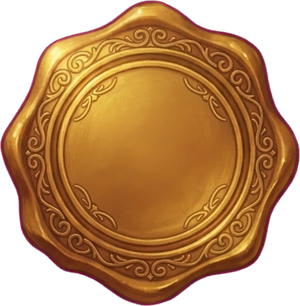
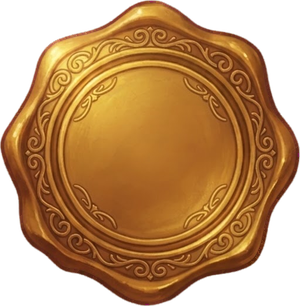
Grimoire : plus de magenta sur le livre, sceau de l'Ascension or vif avec halo et lettres à empattements, auto-clics révélés dans l'ordre des prix réels
Retours de l'auteur. Contour teinté par le fond : nettoyé par une palette
mesurée (tons chauds) et les taches magenta franc. Sceau recoloré en or vif
+ halo qui respire + petites capitales à empattements. Auto-clics : une file
unique dans l'ordre des prix réels (la révélation par palier montrait le
Dragon Miniature dès le départ) ; un auto-clic déjà possédé reste visible.
Sonde de taps 20 / 20 ; 71 contrôles verts, 90 sabotages prouvés.

diff --git a/mobile/src/screens/games/GrimoireBoutique.js b/mobile/src/screens/games/GrimoireBoutique.js
@@ -1,5 +1,5 @@
 import React, { useCallback, useMemo, useRef, useState } from 'react';
-import { View, Text, Image, ImageBackground, TouchableOpacity, Pressable, PanResponder, Animated, Easing, StyleSheet, Dimensions } from 'react-native';
+import { View, Text, Image, ImageBackground, TouchableOpacity, Pressable, PanResponder, Animated, Easing, StyleSheet, Dimensions, Platform } from 'react-native';
 import { CHAPITRES_GRIMOIRE } from '../../games/clicker/grimoireChapitres';
 import { useSettings } from '../../context/SettingsContext';
 import { vibrerSucces, CRISTAL, CYAN_CHAMPIGNON } from './fenetreBois';
@@ -46,13 +46,17 @@ const MEDAILLON = 30;
 const ONGLET_L = 46;
 const ONGLET_H = Math.round((ONGLET_L * 243) / 110);
 const PERSPECTIVE = 1400;
+// Lettres à empattements du système (aucune police à charger).
+const SERIF = Platform.select({ ios: 'Georgia', android: 'serif', default: 'serif' });
 const DUREE_TOUR = 640;
 
 const IMG = {
   livre: require('../../../assets/grimoire/livre.png'),
   feuille: { gauche: require('../../../assets/grimoire/page-gauche.png'), droite: require('../../../assets/grimoire/page-droite.png') },
   medaillon: require('../../../assets/grimoire/medaillon.png'),
-  sceauAscension: require('../../../assets/grimoire/sceau-ascension.png'),
+  // Or VIF + halo doré (retour de l'auteur : « pas jaune brillant comme la maquette »).
+  sceauAscension: require('../../../assets/grimoire/sceau-ascension-or.png'),
+  lueurOr: require('../../../assets/grimoire/lueur-or.png'),
   fond: require('../../../assets/menu/fond.jpg'),
   plaque: require('../../../assets/fenetres/plaque-solde.png'),
 };
@@ -147,7 +151,9 @@ function Grimoire(props) {
   const [position, setPosition] = useState({ c: 0, p: 0 });
   const [tour, setTour] = useState(null); // { sens, de, vers } pendant qu'une page tourne
 
-  const chapitres = CHAPITRES_GRIMOIRE.map((c, i) => ({ ...c, ...VISUELS[c.cle], planches: planches(i, c.ids().filter((id) => parId[id])) }));
+  // Auto-clics : dans l'ORDRE du modèle (prix réels de l'Ascension en cours).
+  const ordonner = (cle, ids) => (cle === 'auto' ? [...ids].sort((x, y) => (parId[x].ordre ?? 0) - (parId[y].ordre ?? 0)) : ids);
+  const chapitres = CHAPITRES_GRIMOIRE.map((c, i) => ({ ...c, ...VISUELS[c.cle], planches: planches(i, ordonner(c.cle, c.ids().filter((id) => parId[id]))) }));
   const chapRef = useRef(chapitres); chapRef.current = chapitres;
   const posRef = useRef(position); posRef.current = position;
   const planche = (pos) => { const C = chapitres[pos.c]; return C.planches[Math.min(pos.p, C.planches.length - 1)]; };
@@ -267,6 +273,15 @@ function Grimoire(props) {
   const total = chap.planches.length;
   const numero = Math.min((tour ? tour.vers : position).p, total - 1) + 1;
   const asc = parId.ascension;
+  const halo = useRef(new Animated.Value(0)).current;
+  React.useEffect(() => {
+    const b = Animated.loop(Animated.sequence([
+      Animated.timing(halo, { toValue: 1, duration: 1100, easing: Easing.inOut(Easing.sin), useNativeDriver: true }),
+      Animated.timing(halo, { toValue: 0, duration: 1100, easing: Easing.inOut(Easing.sin), useNativeDriver: true }),
+    ]));
+    b.start();
+    return () => b.stop();
+  }, []);
   const cActif = (tour ? tour.vers : position).c;
   return (
     <View style={styles.racine}>
@@ -308,6 +323,10 @@ function Grimoire(props) {
 
       {/* SOUS le livre, mis en avant : Griffes, le sceau de l'Ascension, Offrande. */}
       <Special n={parId.griffes} formatNum={formatNum} onFiche={setFicheId} onAcheter={acheter} style={{ left: 10, top: SOUS_LIVRE_Y + 4 }} />
+      {asc ? (
+        <Animated.Image source={IMG.lueurOr} resizeMode="stretch" style={{ position: 'absolute', left: Math.round(ECRAN_L / 2 - 70), top: SOUS_LIVRE_Y - 29, width: 140, height: 140, pointerEvents: 'none',
+          opacity: halo.interpolate({ inputRange: [0, 1], outputRange: [0.55, 0.95] }), transform: [{ scale: halo.interpolate({ inputRange: [0, 1], outputRange: [0.92, 1.06] }) }] }} />
+      ) : null}
       {asc ? (
         <TouchableOpacity activeOpacity={0.8} onPress={() => setFicheId('ascension')} style={[styles.ascension, { left: Math.round(ECRAN_L / 2 - 41), top: SOUS_LIVRE_Y }]}>
           <Image source={IMG.sceauAscension} resizeMode="contain" style={styles.ascensionImg} />
@@ -401,8 +420,9 @@ const styles = StyleSheet.create({
   numeroTexte: { color: '#4a3418', fontSize: 10.5, fontWeight: '900', includeFontPadding: false },
   ascension: { position: 'absolute', width: 82, height: 82, alignItems: 'center', justifyContent: 'center' },
   ascensionImg: { position: 'absolute', left: 0, top: 0, width: 82, height: 82 },
-  ascensionTexte: { color: '#4a2e06', fontSize: 9, fontWeight: '900', letterSpacing: 0.3, includeFontPadding: false },
-  ascensionNiveau: { color: '#4a2e06', fontSize: 9, fontWeight: '800', includeFontPadding: false },
+  // Comme la maquette : capitales à empattements, crème cerclée de brun, petites.
+  ascensionTexte: { color: '#fff4d0', fontFamily: SERIF, fontSize: 8.5, fontWeight: '700', letterSpacing: 0.7, includeFontPadding: false, textShadowColor: 'rgba(70,35,0,0.95)', textShadowOffset: { width: 0, height: 1 }, textShadowRadius: 2 },
+  ascensionNiveau: { color: '#fff4d0', fontFamily: SERIF, fontSize: 8, fontWeight: '700', includeFontPadding: false, textShadowColor: 'rgba(70,35,0,0.95)', textShadowOffset: { width: 0, height: 1 }, textShadowRadius: 2 },
   ascensionBarre: { width: 56, height: 6, marginTop: 3, borderRadius: 3, backgroundColor: 'rgba(40,24,6,0.55)', padding: 1, justifyContent: 'center' },
   entete: { position: 'absolute', left: 0, right: 0, top: 40, flexDirection: 'row', justifyContent: 'space-between', alignItems: 'flex-start', paddingHorizontal: 12 },
   plaque: { width: 124, height: 38, flexDirection: 'row', alignItems: 'center', justifyContent: 'center' },

diff --git a/mobile/src/screens/games/ArbreBoutique.js b/mobile/src/screens/games/ArbreBoutique.js
@@ -141,24 +141,30 @@ function construireNoeuds(p) {
     prix: prixV, etat: etat(!okV, maxV, prixV, p.coins), onPress: p.onBuyVeilleur, allume: p.veilleurLevel > 0,
     detail: okV ? 'Augmente tes gains quand tu ne joues pas.' : exigence('veilleur') });
 
-  // ── AUTO-CLICS : 3 RACINES selon le palier (champ `tier` des données),
-  // chacune révélée 2 par 2 (les possédés, le suivant, puis un « ??? »).
+  // ── AUTO-CLICS : UNE seule file, dans l'ORDRE DES PRIX RÉELS de
+  // l'Ascension en cours (1er achat), révélée 2 par 2 : les possédés, le
+  // suivant (achetable), puis un « ??? ». Retour de l'auteur (27/09) :
+  // révélés par palier en parallèle, le 1er de chaque palier était visible dès
+  // le départ (Dragon Miniature acheté avant tout le reste). Le jeu n'impose
+  // aucun ordre (aucune règle de déblocage) : c'est cette révélation qui le
+  // donne. Positions de l'arbre : inchangées (racine du palier).
   const racines = autoClicsParPalier();
-  PALIERS_AUTO.forEach((palier) => {
-    const liste = racines[palier] || [];
-    let dernier = -1;
-    liste.forEach((c, i) => { if (((p.autoClickers && p.autoClickers[c.id]) || 0) > 0) dernier = i; });
-    liste.forEach((c, i) => {
-      const pos = (RACINES_AUTO[palier] || [])[i]; if (!pos || i > dernier + 2) return;
-      const possede = (p.autoClickers && p.autoClickers[c.id]) || 0;
-      const mystere = i === dernier + 2;
-      const prix = remise(autoClickerCost(c, possede, p.ascensionCount));
-      ajouter({ id: c.id, parent: i === 0 ? 'ascension' : liste[i - 1].id, x: pos[0], y: pos[1],
-        emoji: c.emoji, nom: c.name, niveau: possede > 0 ? `×${possede}` : '', prix, etat: etat(mystere, false, prix, p.coins),
-        gain: mystere ? `🔒 achète ${liste[i - 1].name}` : `+${nb(c.baseIncome, 1)} /s chacun`,
-        onPress: () => p.onBuyAutoClicker(c.id), allume: possede > 0,
-        detail: mystere ? `🔒 Achète d'abord ${liste[i - 1].name}.` : `Possédé : ${possede} · +${nb(c.baseIncome, 1)}/s chacun.` });
-    });
+  const file = [...AUTOCLICKERS].sort((x, y) => autoClickerCost(x, 0, p.ascensionCount) - autoClickerCost(y, 0, p.ascensionCount));
+  let dernier = -1;
+  file.forEach((c, i) => { if (((p.autoClickers && p.autoClickers[c.id]) || 0) > 0) dernier = i; });
+  file.forEach((c, ordre) => {
+    if (ordre > dernier + 2) return;
+    const palier = c.tier; const liste = racines[palier] || []; const i = liste.findIndex((x) => x.id === c.id);
+    const pos = (RACINES_AUTO[palier] || [])[i]; if (!pos) return;
+    const possede = (p.autoClickers && p.autoClickers[c.id]) || 0;
+    const mystere = ordre === dernier + 2 && possede === 0;
+    const precedent = ordre > 0 ? file[ordre - 1] : null;
+    const prix = remise(autoClickerCost(c, possede, p.ascensionCount));
+    ajouter({ id: c.id, ordre, parent: i === 0 ? 'ascension' : liste[i - 1].id, x: pos[0], y: pos[1],
+      emoji: c.emoji, nom: c.name, niveau: possede > 0 ? `×${possede}` : '', prix, etat: etat(mystere, false, prix, p.coins),
+      gain: mystere ? `🔒 achète ${precedent.name}` : `+${nb(c.baseIncome, 1)} /s chacun`,
+      onPress: () => p.onBuyAutoClicker(c.id), allume: possede > 0,
+      detail: mystere ? `🔒 Achète d'abord ${precedent.name}.` : `Possédé : ${possede} · +${nb(c.baseIncome, 1)}/s chacun.` });
   });
 
   // ── RELIQUES : DANS l'arbre, rangées par famille d'effet ; verrouillées

diff --git a/mobile/CLICKER_ADVENTURE_STATE.md b/mobile/CLICKER_ADVENTURE_STATE.md
@@ -1404,3 +1404,21 @@ retenue sans preuve) :
 pages, et l'achat de Griffes n'était plus mis en avant) — Griffes, le sceau
 de l'Ascension et Offrande reviennent SOUS le livre (HORS_LIVRE) ; livre
 ×1,22 ; boutons de prix au contact là aussi.
+
+**Grimoire — retouches (retours de l'auteur, 27/09)** :
+- **Magenta en haut du livre** : contour mi-transparent teinté par le fond.
+  Méthode MESURÉE : papier / cuir / or = tons chauds (rouge ≥ vert, vert −
+  bleu ≥ 23 ; le rose résiduel est ≤ 12) → dans une bande de 10 px au
+  contour, tout pixel hors de cette palette prend la couleur du pixel chaud
+  propre le plus proche (seuil 18) ; + les taches magenta franc partout
+  (452 px cachés en bas du dos). Livre, feuilles, sceaux, médaillon nettoyés.
+- **Sceau de l'Ascension** : version OR VIF (`sceau-ascension-or.png`), halo
+  doré qui respire (`lueur-or.png`), « ASCENSION » en petites capitales à
+  empattements (police système : Georgia / serif) crème cerclée de brun.
+- **Ordre des auto-clics** : le jeu n'impose AUCUN ordre (pas de règle de
+  déblocage) ; la révélation PAR PALIER héritée de l'arbre montrait le 1er de
+  chaque palier dès le départ (Dragon Miniature acheté avant tout). → UNE
+  file dans l'ordre des PRIX RÉELS de l'Ascension en cours (stable : vérifié
+  Asc 0, 1, 3), révélée 2 par 2 (possédés, suivant, « ??? ») ; un auto-clic
+  déjà possédé hors ordre reste visible. Vérifié au banc : partie neuve →
+  « Esprit Frappeur · ??? » ; Dragon possédé → tout jusqu'au Phénix + « ??? ».
